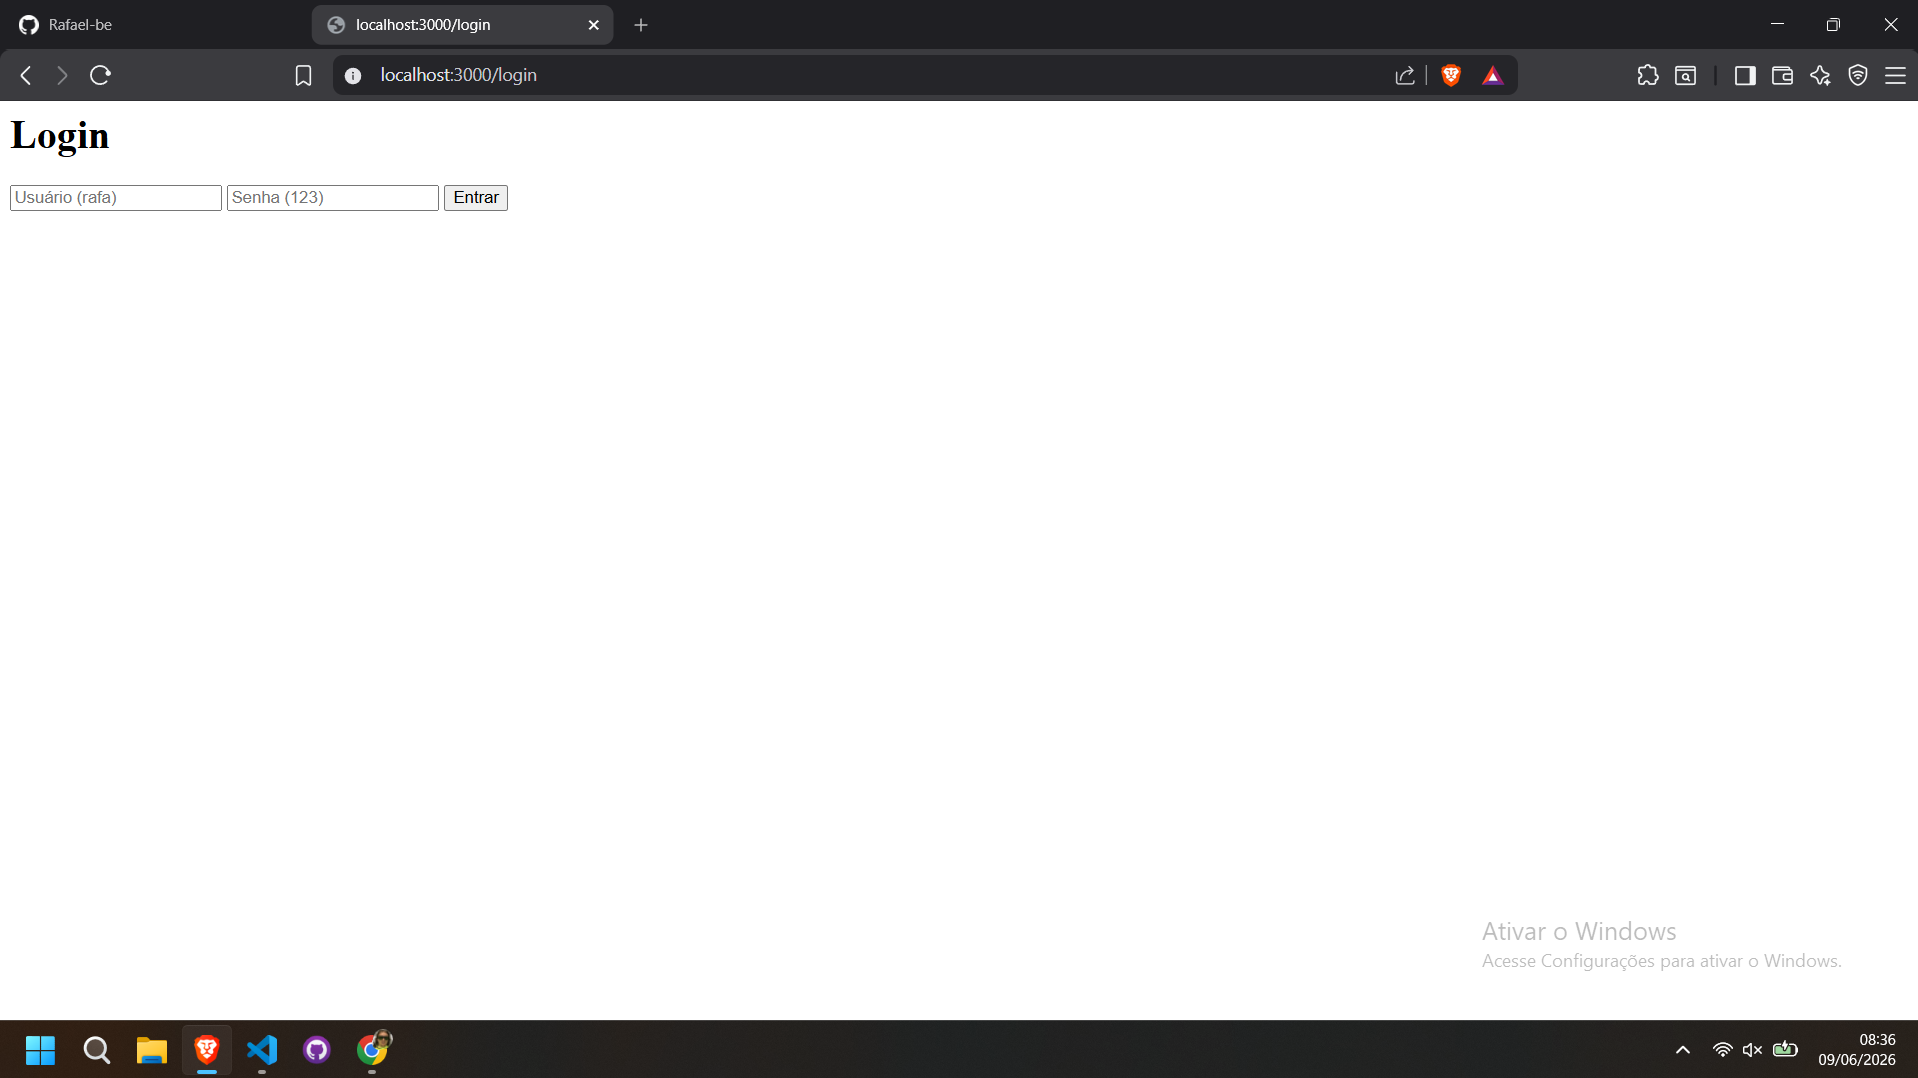
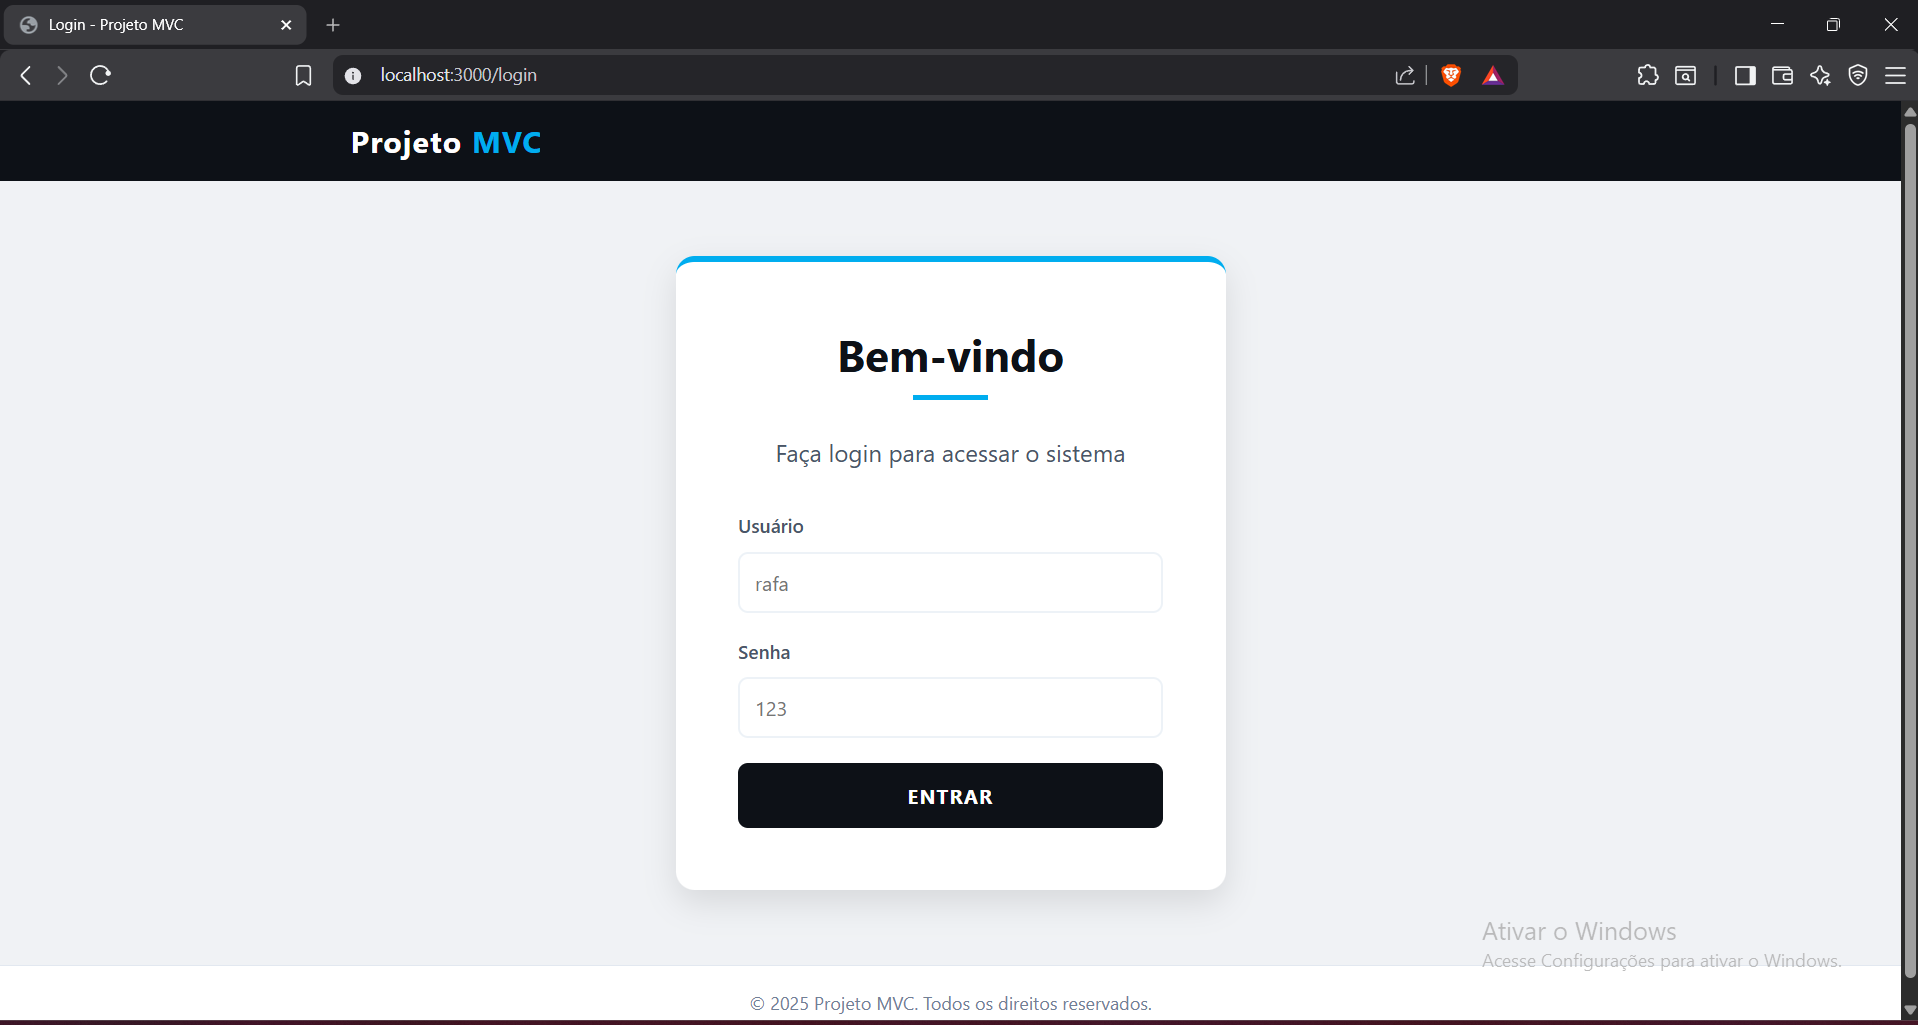
Alterações na documentação

diff --git a/public/css/style.css b/public/css/style.css
@@ -364,3 +364,65 @@ body {
     text-align: center;
     margin-bottom: 30px;
 }
+
+/* Login */
+.login-card {
+    background: white;
+    padding: 50px;
+    border-radius: 15px;
+    box-shadow: 0 10px 25px rgba(0,0,0,0.1);
+    width: 100%;
+    max-width: 440px;
+    border-top: 5px solid #00adef;
+    margin: 60px auto;
+}
+
+.login-header {
+    text-align: center;
+    margin-bottom: 30px;
+}
+
+.login-title {
+    font-size: 2.2rem;
+    color: #0d1117;
+    margin-bottom: 10px;
+}
+
+.login-error {
+    background-color: #fee2e2;
+    color: #dc2626;
+    border-radius: 8px;
+    padding: 10px 15px;
+    margin-bottom: 20px;
+    font-size: 0.95rem;
+    text-align: center;
+}
+
+.login-form .input-group {
+    margin-bottom: 20px;
+    text-align: left;
+}
+
+.login-form label {
+    display: block;
+    margin-bottom: 6px;
+    font-weight: 600;
+    color: #4a5568;
+    font-size: 0.95rem;
+}
+
+.login-form input {
+    width: 100%;
+    padding: 12px;
+    border: 2px solid #edf2f7;
+    border-radius: 8px;
+    font-size: 1rem;
+    font-family: inherit;
+    transition: border-color 0.3s;
+    box-sizing: border-box;
+}
+
+.login-form input:focus {
+    outline: none;
+    border-color: #00adef;
+}

diff --git a/README.md b/README.md
@@ -42,30 +42,20 @@ Sugestoes de screenshots para valorizar o projeto:
 
 1. **Tela de Login**
    - Pagina: `http://localhost:3000/login`
-   - Mostrar o formulario de autenticacao.
-   - Nome sugerido: `public/screenshots/login.png`
+   - ![Tela de login](public/screenshots/login.png)
 
 2. **Home**
    - Pagina: `http://localhost:3000/`
-   - Mostrar a tela inicial com o card principal e o botao de acesso ao gerenciamento.
-   - Nome sugerido: `public/screenshots/home.png`
+   - ![Home](public/screenshots/home.png)
 
 3. **Catalogo de Produtos**
    - Pagina: `http://localhost:3000/CRUD`
-   - Mostrar alguns produtos cadastrados, com botoes de editar e excluir.
-   - Nome sugerido: `public/screenshots/catalogo-produtos.png`
+   - ![CRUD de produtos](public/screenshots/CRUD.png)
 
 4. **Modal de Cadastro ou Edicao**
    - Pagina: `http://localhost:3000/CRUD`
-   - Abrir o modal de adicionar ou editar produto antes de tirar o print.
-   - Nome sugerido: `public/screenshots/modal-produto.png`
+   - ![Edição e cadastro no CRUD](public/screenshots/CRUD-alterado.png)
 
-Exemplo de como incluir as imagens no README:
-
-```md
-![Tela de login](public/screenshots/login.png)
-![Catalogo de produtos](public/screenshots/catalogo-produtos.png)
-```
 
 ## Pre-requisitos
 
